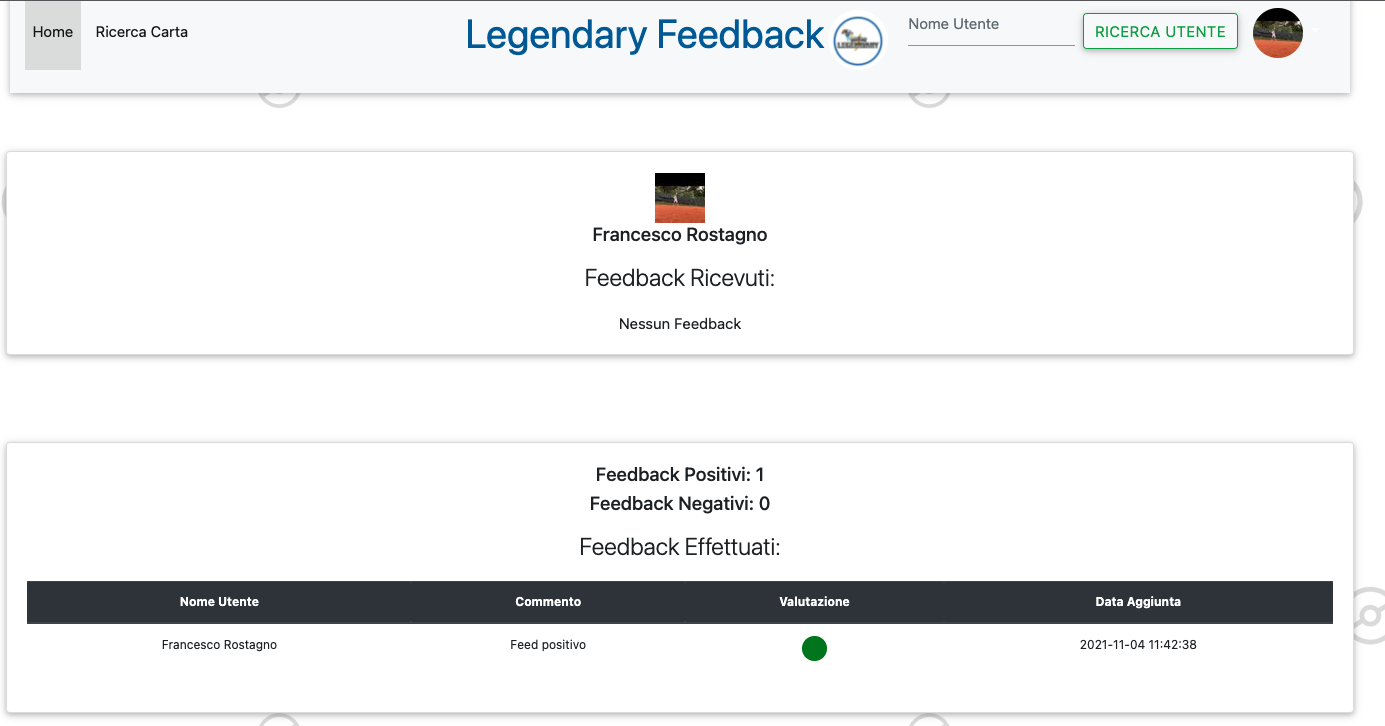
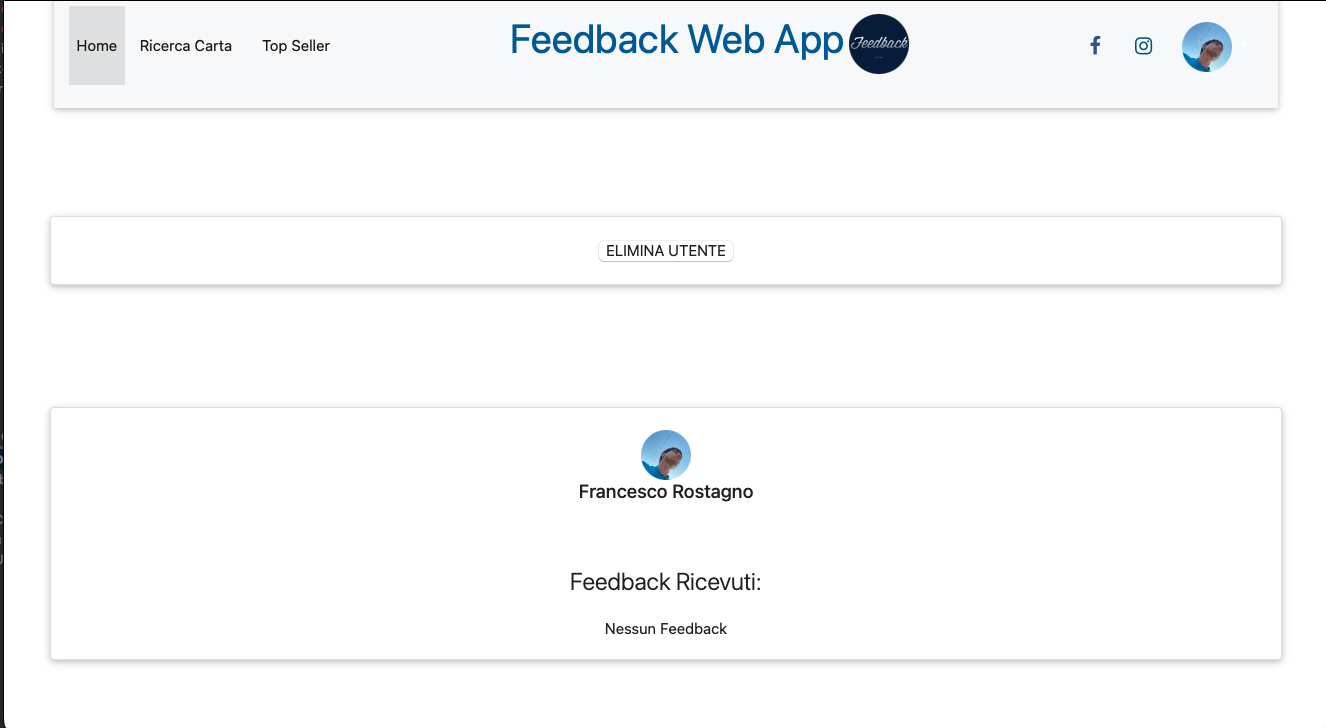
inseririmento di file readme e delle immagini aggiornate per la sezione info

diff --git a/README.md b/README.md
@@ -1,0 +1,40 @@
+<h1>FEEDBACK WEB APP</h1>
+
+<span>Applicazione realizzata per riunire tutti i feedback delle compravendite online. Inoltre essendo stata pensata per il collezionismo delle carte da collezione pokemon è stata introdotta una sezione apposita per la ricerca delle carte e del loro valore</span>
+
+<h2>REALIZZAZIONE</h2>
+
+<span>L'applicazione è stata realizzata attraverso il framework expressjs (https://expressjs.com) basato su node (https://nodejs.org/). I dati risiedono all'interno di un database MySql.</span>
+
+<span>Per la ricerca e la valutazione delle carte sono state utilizzate le api fornite da https://pokemontcg.io </sapn>
+
+
+<h2>INSTALLAZIONE E UTILIZZO</h2>
+
+<span>Attualmente l'applicazione risiede sull'host heroku(https://heroku.com/) ed è accessibile a tutti attraverso l'indirizzo https://feedbackwebapp.herokuapp.com.</span>
+
+<span>Il sistema di autenticazione utilizzato dall'applicazione è quello fornito da facebook, in quanto l'idea dell'applicazione è nata dopo il confronto con gli amministratori di varie community di collezionismo pokemon risiedenti all'interno del social network.</sapn>
+<img src="./public/images/login.png" style="width:400px">
+
+<span>Una volta effettuato il login l'utente è automaticamente registrato all'interno della piattaforma e potrà effettuare e/o ricevere feedback e andare a ricercare le carte e il loro valore.</span>
+
+<img src="./public/images/home.png" style="width:400px">
+
+<span>NB: Nella pagina principale l'utente non potrà vedere il prorpio profilo, il quale può essere monitorato nella sezione apposità , raggiungibile attraverso il menù ( cliccando sopra la propria immagine e successivamente sul proprio nominattivo)</span>
+
+<img src="./public/images/paginaPersonale.png" style="width:400px">
+<img src="./public/images/profilo.png" style="width:400px">
+
+<span>L'utente potra registrare un feedback (negativo/postivo) riguardo alla compravendita avuta con un utente registrato. Potrà oltre che valutarlo positivamente o negativamente 
+registrare una piccola descrizione della trattativa e indicare su quale piattaforma è avvenuta. In questo modo possono essere registrate tutte le trattative avvenute anche su piattaforme diverse da Facebook</span>
+
+<span>Gli utenti possono essere ricercati attraverso la select posta in alto nella home.</span>
+<img src="./public/images/ricercautente.png">
+<span>E' presente una pagina dedicata alla visualizzazione dei "Top Seller" cioè di coloro che hanno totalizzato il numero maggiore di feedback positivi.</span>
+
+
+<span>Una funzionalità sicuramente utile e carina è la possibilità di ricercare le carte riguardanti un pokemon, un set o una specifica espansione</span>
+<img src="./public/images/ricercacarte.png" style="width:400px">
+<img src="./public/images/dettaglioCarta.png" style="width:400px">
+
+<sapn>All'interno del dettaglio della carta è possibile visualizzare i vari valori forniti dai due principali siti utilizzati per le valutazioni, Cardmarket(https://www.cardmarket.com/it/Pokemon) e TCGPLAYER(https://www.tcgplayer.com) </span>
